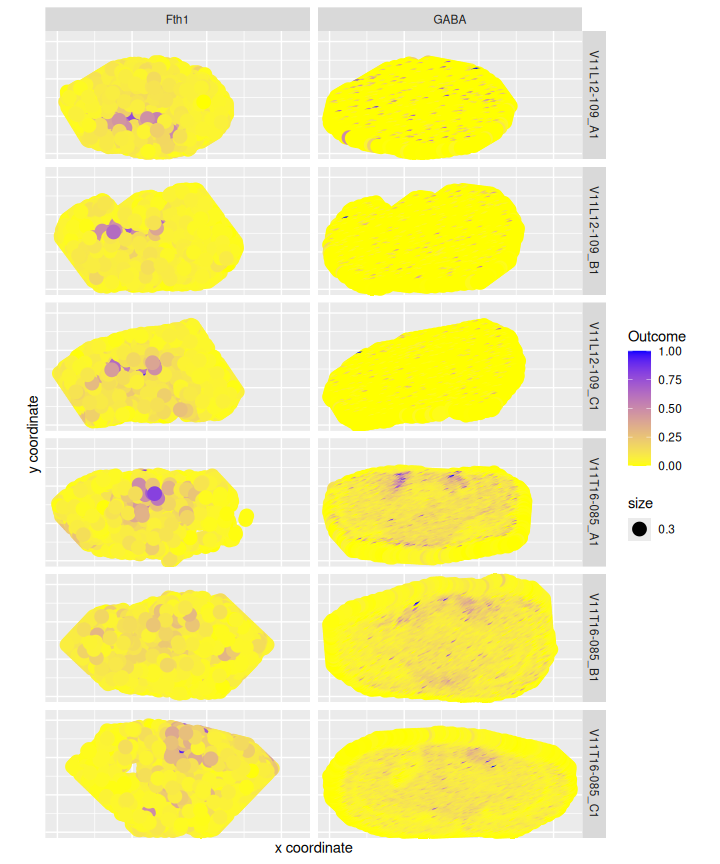
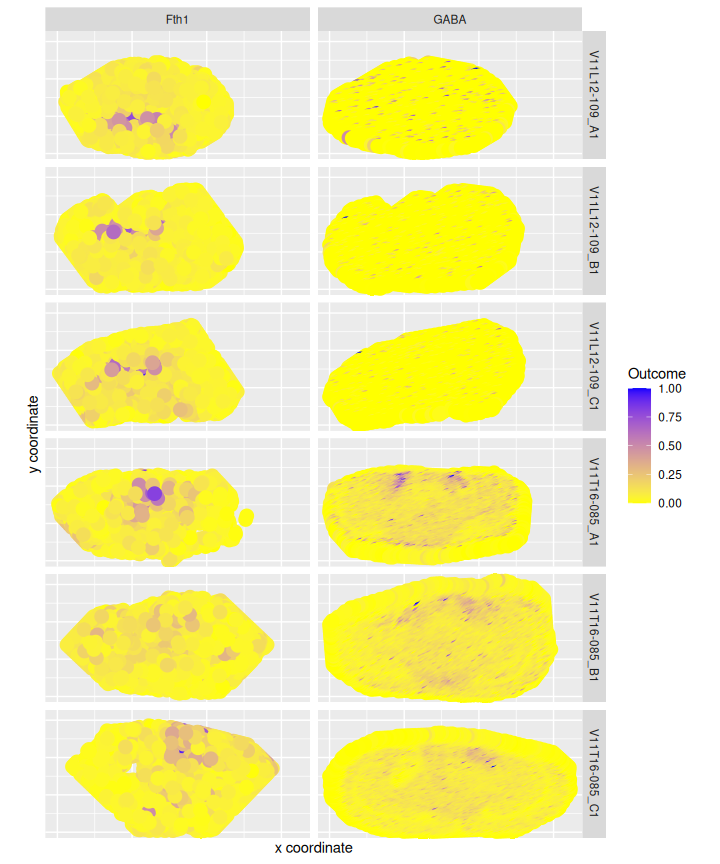
recompiled readme

Changed region(s): [[0.8556, 0.375, 0.9472, 0.625]]

diff --git a/README.md b/README.md
@@ -201,7 +201,7 @@ nevertheless:
 ``` r
 plotTopPair(multiGAMLmmsRes,
   Xl = Vicari$TranscriptOutcomes, Yl = Vicari$MetaboliteOutcomes,
-  Cxl = Vicari$TranscriptCoords, Eyl = Vicari$MetaboliteCoords, size = 0.3
+  Cxl = Vicari$TranscriptCoords, Eyl = Vicari$MetaboliteCoords, size = 0.1
 )
 ```
 
